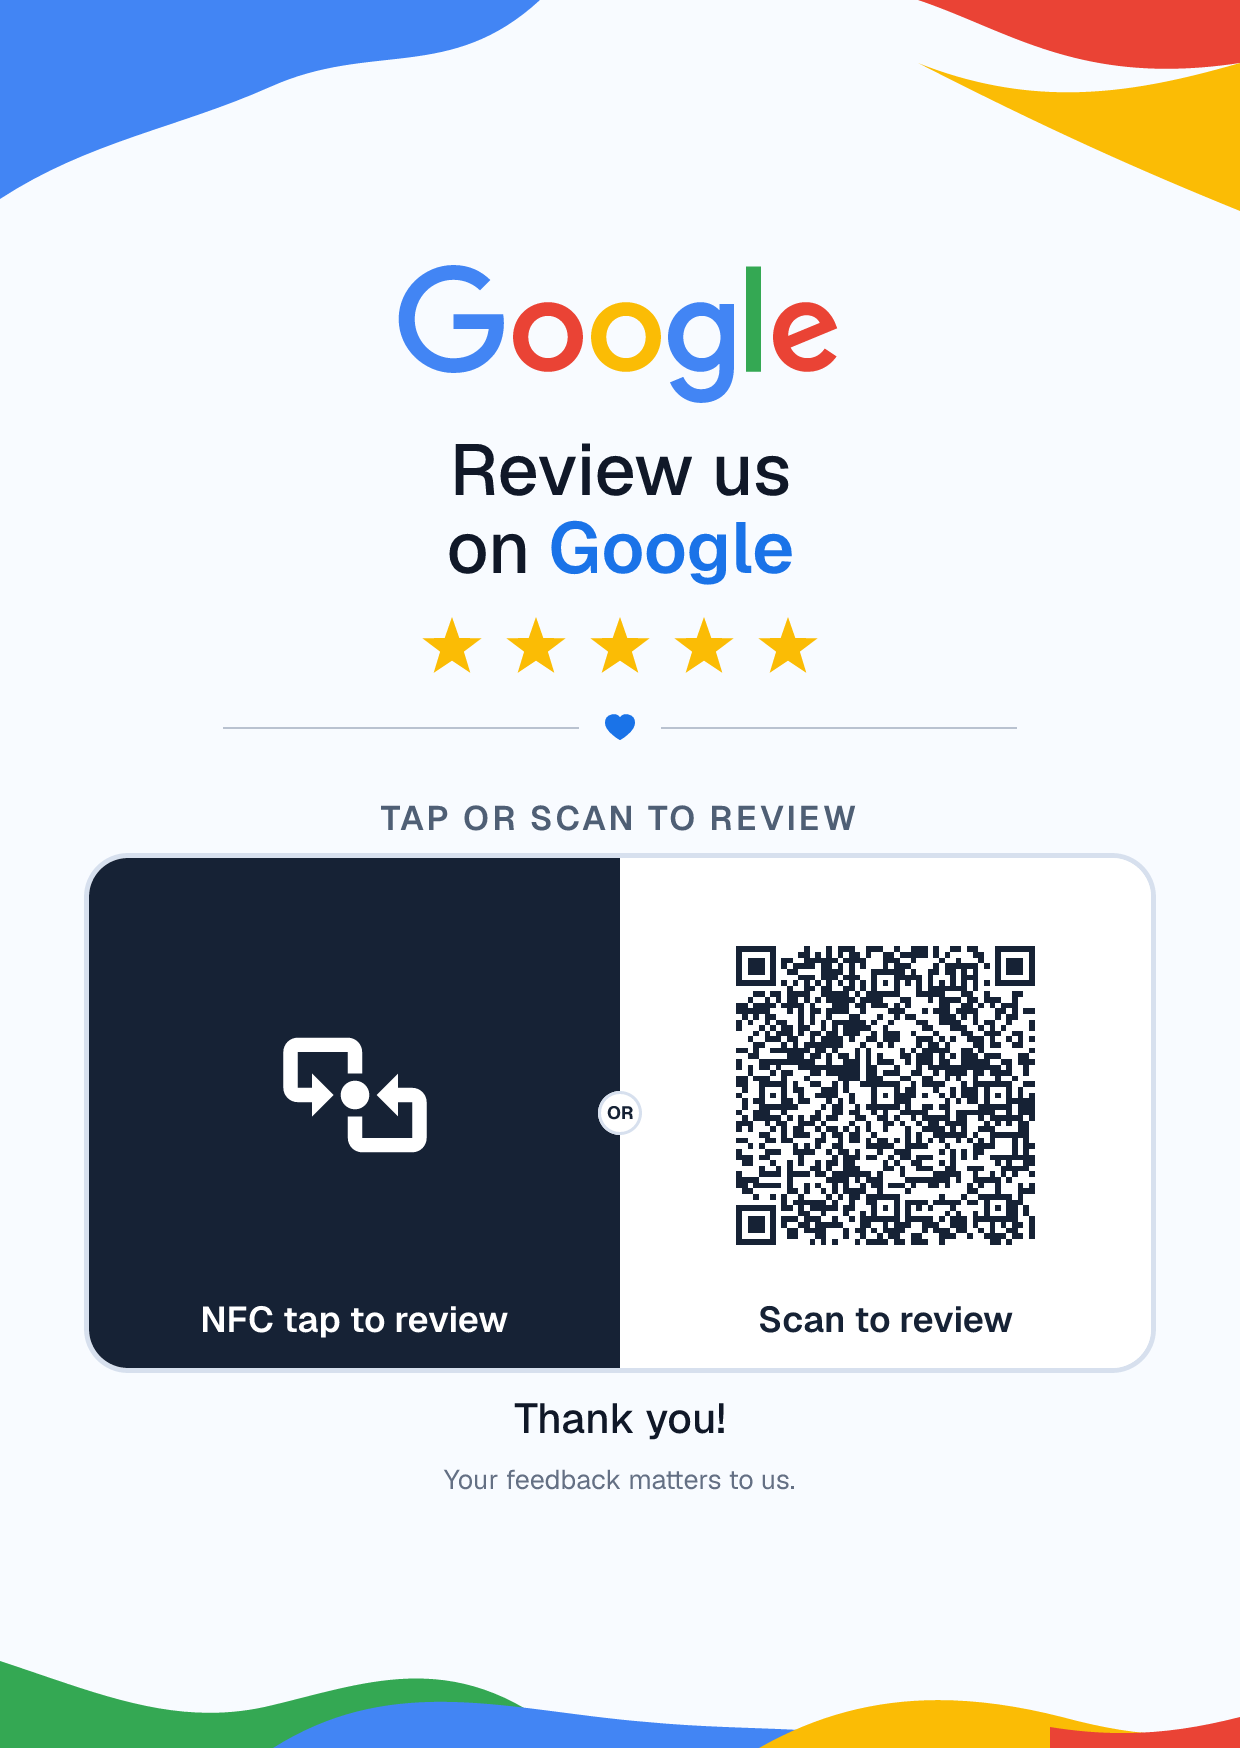
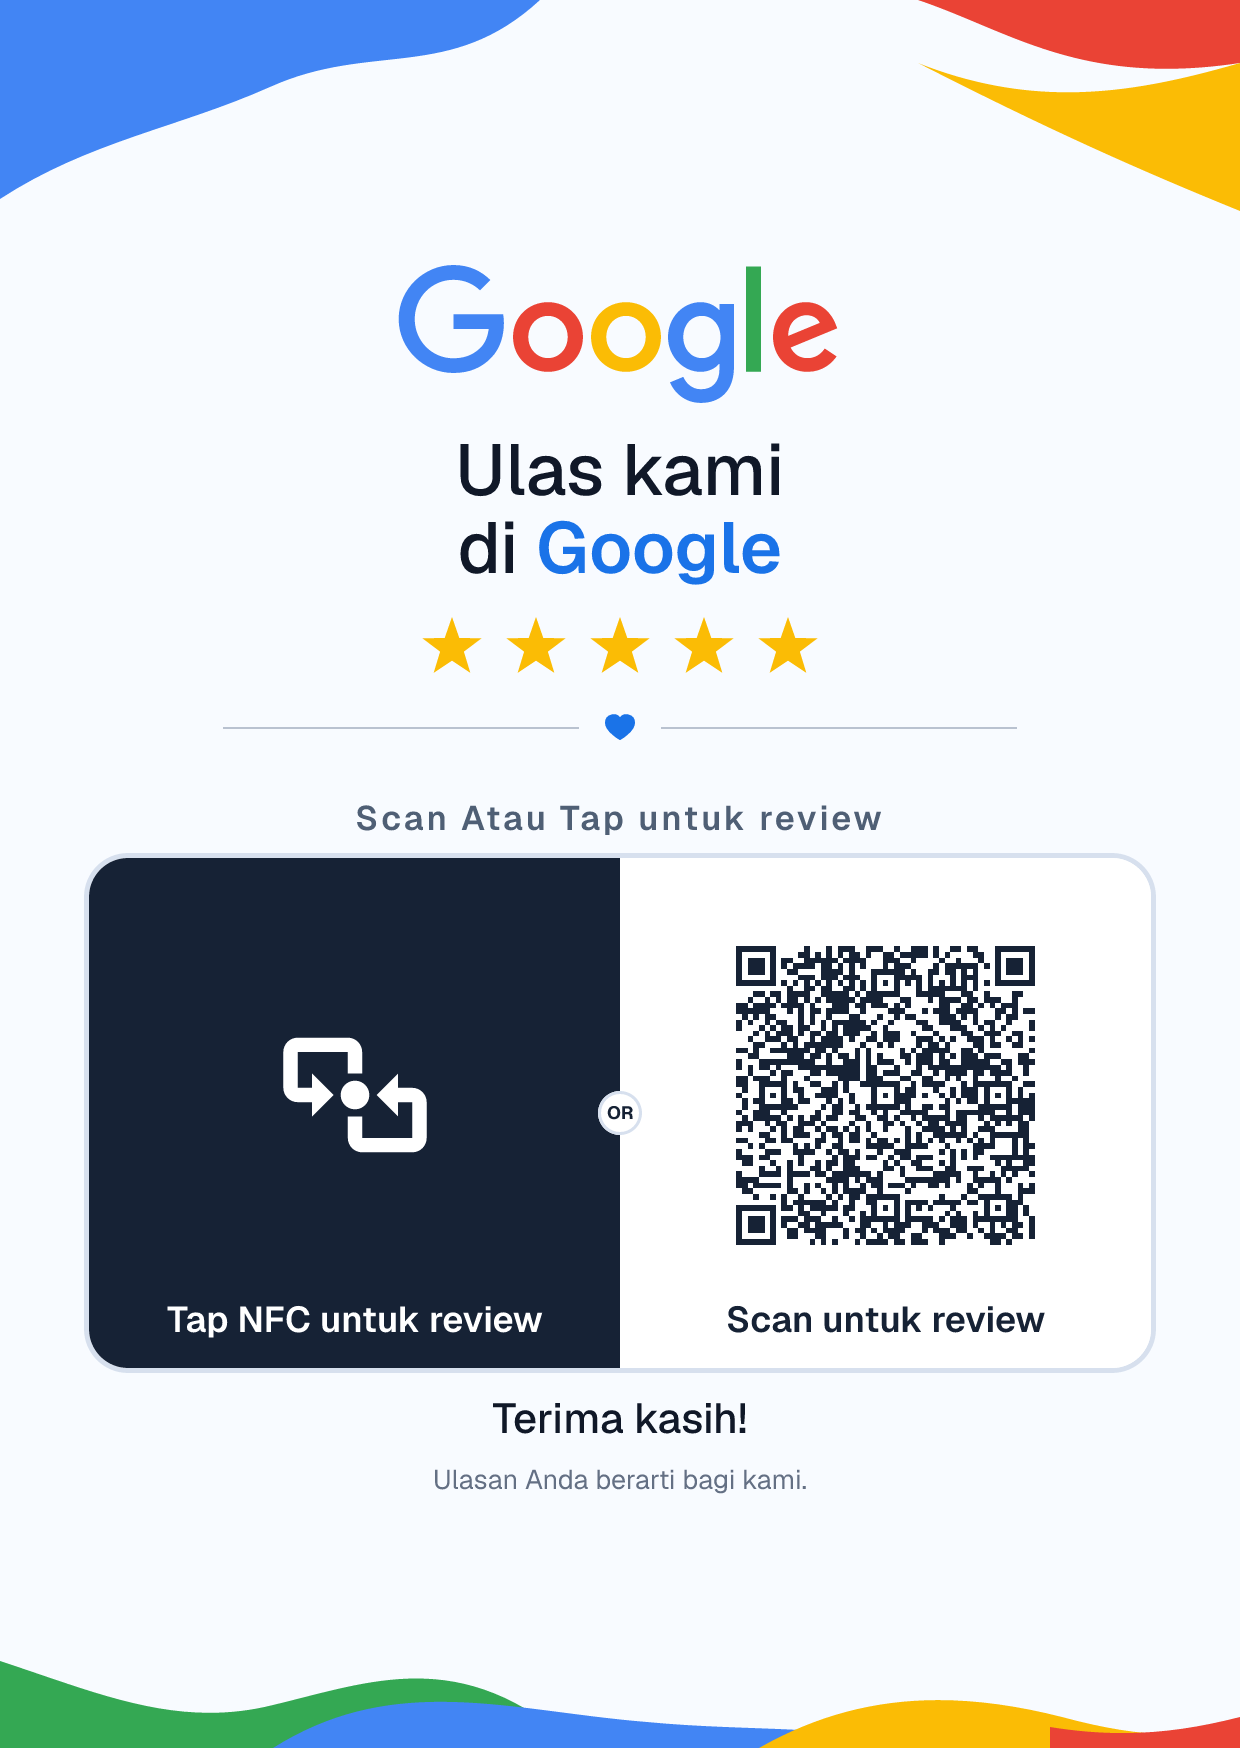
fix(templates): preserve review card wording

diff --git a/src/templates/google-review-card.tsx b/src/templates/google-review-card.tsx
@@ -259,7 +259,7 @@ function ActionPanel({ qrUrl }: { qrUrl: string }) {
               color: "#ffffff",
             }}
           >
-            Ketuk NFC untuk mengulas
+            Tap NFC untuk review
           </div>
         </div>
 
@@ -283,7 +283,7 @@ function ActionPanel({ qrUrl }: { qrUrl: string }) {
             zIndex: 1,
           }}
         >
-          ATAU
+          OR
         </div>
 
         <div style={{ ...actionColumnStyle, backgroundColor: "#ffffff" }}>
@@ -308,7 +308,7 @@ function ActionPanel({ qrUrl }: { qrUrl: string }) {
               color: "#162235",
             }}
           >
-            Pindai untuk mengulas
+            Scan untuk review
           </div>
         </div>
       </div>
@@ -393,7 +393,7 @@ export function GoogleReviewCard({ qrUrl }: GoogleReviewCardProps) {
               textAlign: "center",
             }}
           >
-            KETUK ATAU PINDAI UNTUK MENGULAS
+            Scan Atau Tap untuk review
           </div>
           <ActionPanel qrUrl={qrUrl} />
         </div>
